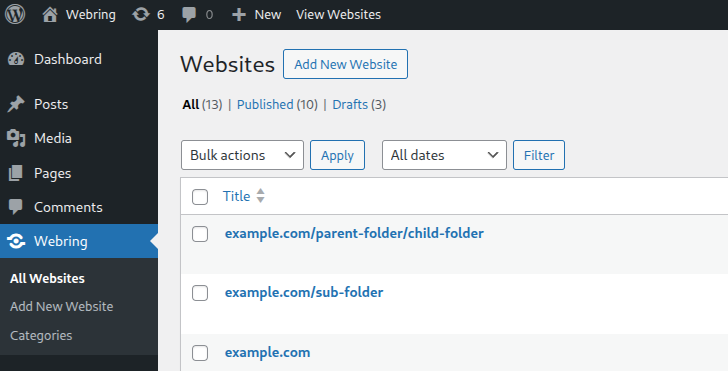
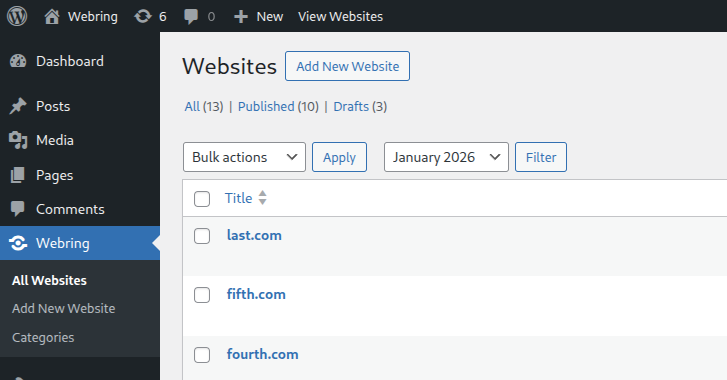
Release version 1.1.0

diff --git a/webring-manager.php b/webring-manager.php
@@ -10,7 +10,7 @@
  * Plugin Name: Webring Manager
  * Plugin URI: https://wordpress.org/plugins/webring-manager/
  * Description: Manage a webring on your WordPress site.
- * Version: 1.0.0
+ * Version: 1.1.0
  * Author: Bernhard Kau
  * Author URI: https://github.com/deworg/webring-manager
  * Text Domain: webring-manager
@@ -23,10 +23,8 @@ if ( ! defined( 'ABSPATH' ) ) {
 	exit;
 }
 
-define( 'WEBRING_MANAGER_VERSION', '1.0.0' );
-define( 'WEBRING_MANAGER_FILE', __FILE__ );
-define( 'WEBRING_MANAGER_PATH', plugin_dir_path( WEBRING_MANAGER_FILE ) );
-define( 'WEBRING_MANAGER_URL', plugin_dir_url( WEBRING_MANAGER_FILE ) );
+define( 'WEBRING_MANAGER_PATH', plugin_dir_path( __FILE__ ) );
+define( 'WEBRING_MANAGER_URL', plugin_dir_url( __FILE__ ) );
 
 // The pre_init functions check the compatibility of the plugin and calls the init function if check were successful.
 webring_manager_pre_init();
